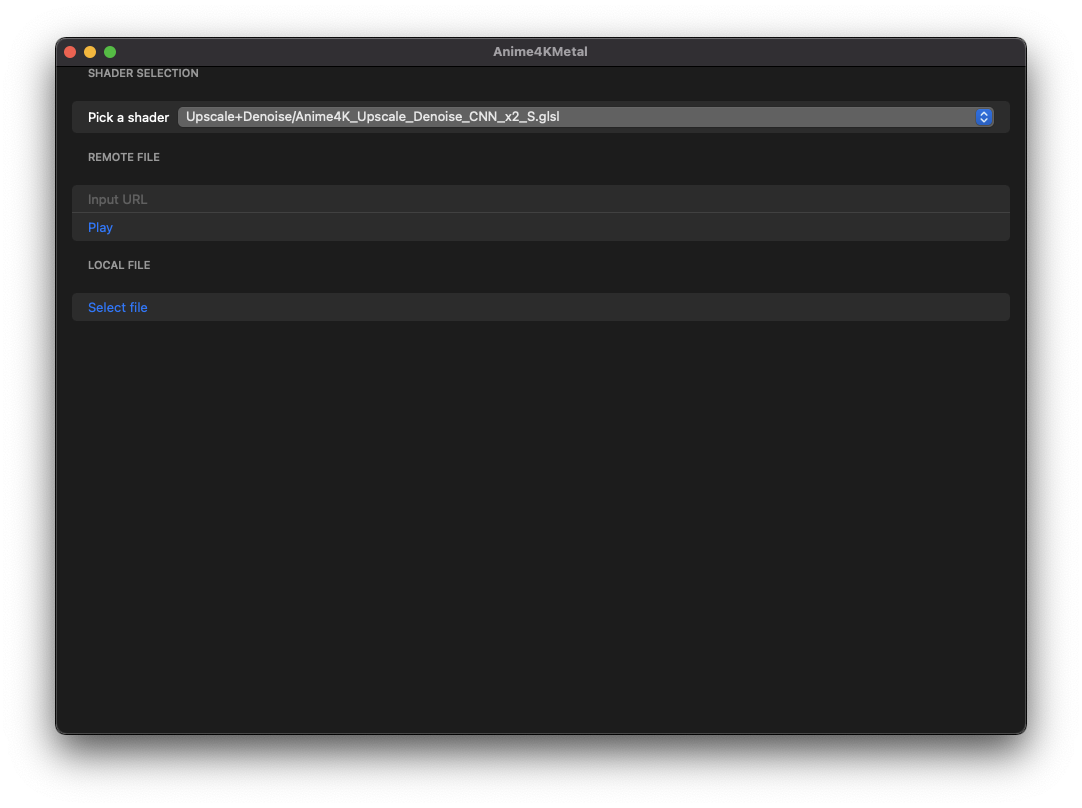
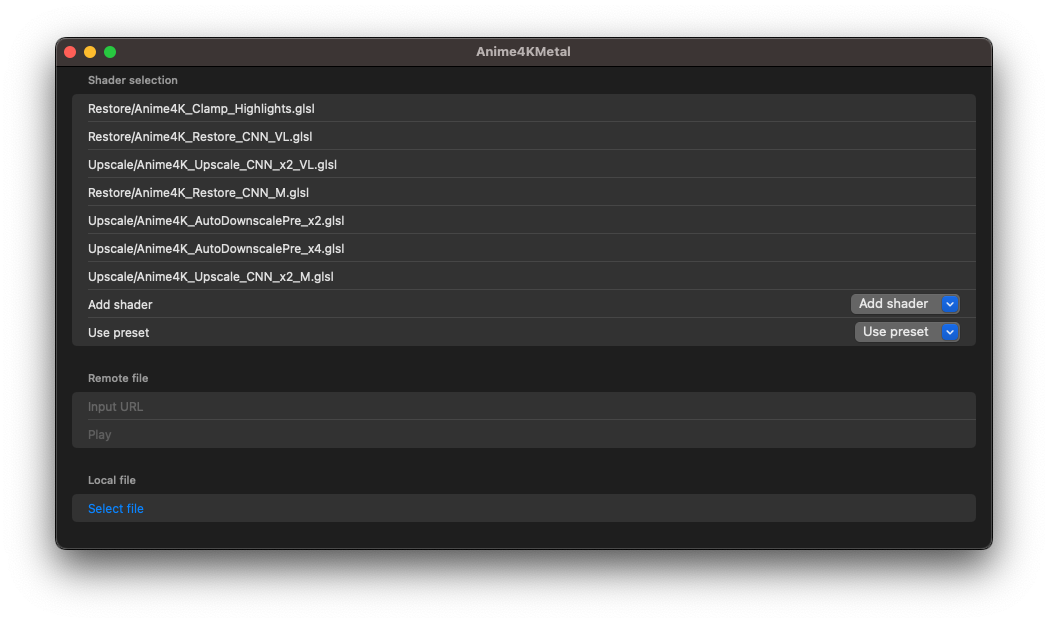
Update readme

diff --git a/README.md b/README.md
@@ -2,7 +2,7 @@
 
 ## Introduction
 
-This is a port of [Anime4K](https://github.com/bloc97/Anime4K) to Metal. It dynamically translates GLSL shaders to Metal shaders and applies them during video playback. All shaders from the Anime4K project should work regardless of performance.
+This is a port of [Anime4K](https://github.com/bloc97/Anime4K) to Metal. It dynamically translates GLSL shaders to Metal shaders and applies them in order during video playback. All shaders and presets from the Anime4K project should work regardless of performance.
 
 ## Requirements
 - Xcode 13.0+
@@ -20,19 +20,40 @@ Download in [Releases](https://github.com/imxieyi/Anime4KMetal/releases).
 
 ![](assets/main_macos.png)
 
+### iOS
+
+![](assets/main_ios.png)
+
 ### tvOS
 
-![](assets/main_tvos.png)
+![](assets/main_tvos.jpg)
 
-### [Anime4K_Restore_CNN_M.glsl](https://github.com/bloc97/Anime4K/blob/master/glsl/Restore/Anime4K_Restore_CNN_M.glsl) on M1 Mac
+### Preset demos
+
+All presets are the same as defined the [official Anime4K instructions](https://github.com/bloc97/Anime4K/blob/master/md/GLSL_Instructions_Mac.md).
+
+#### `Anime4K: Mode A+A (HQ)` on 48-core M1 Ultra
+
+![](assets/Anime4K_A_plus_A_HQ_M1_Ultra.png)
+
+#### `Anime4K: Mode A+A (Fast)` on iPad mini (6th generation) (A15)
+
+![](assets/Anime4K_A_plus_A_Fast_A15_iPad_mini.png)
+
+#### `Anime4K: Mode A (Fast)` on Apple TV 4K (A10X)
+
+![](assets/Anime4K_A_Fast_A10X_Apple_TV.png)
+
+### Single shader demos (old version)
+#### [Anime4K_Restore_CNN_M.glsl](https://github.com/bloc97/Anime4K/blob/master/glsl/Restore/Anime4K_Restore_CNN_M.glsl) on Apple M1
 
 ![](assets/Anime4K_Restore_CNN_M_m1.png)
 
-### [Anime4K_Restore_GAN_UUL.glsl](https://github.com/bloc97/Anime4K/blob/master/glsl/Restore/Anime4K_Restore_GAN_UUL.glsl) on 5700XT
+#### [Anime4K_Restore_GAN_UUL.glsl](https://github.com/bloc97/Anime4K/blob/master/glsl/Restore/Anime4K_Restore_GAN_UUL.glsl) on 5700XT
 
 ![](assets/Anime4K_Restore_GAN_UUL_5700xt.png)
 
-### [Anime4K_Deblur_DoG.glsl](https://github.com/bloc97/Anime4K/blob/master/glsl/Deblur/Anime4K_Deblur_DoG.glsl) on Apple TV 4K (A10X)
+#### [Anime4K_Deblur_DoG.glsl](https://github.com/bloc97/Anime4K/blob/master/glsl/Deblur/Anime4K_Deblur_DoG.glsl) on Apple TV 4K (A10X)
 
 ![](assets/Anime4K_Deblur_DoG_a10x_tv.png)
 
@@ -44,13 +65,11 @@ Download in [Releases](https://github.com/imxieyi/Anime4KMetal/releases).
 
 ## How to use
 
-Only mp4 files with yuv420 pixel format are supported by the built-in decoder. Other formats must be converted to the supported format.
+Only mp4 files with yuv420 pixel format are supported by the OS built-in decoder. Other formats must be converted to the supported format.
 
-### Pick shader
+### Pick shader or preset
 
-Pick the desired shader under `Shader selection` section. Not all shaders will run well on all devices. If you see obvious dropped frames please use a smaller shader instead. Large shaders will take longer time to convert and compile. In the meantime the app will appear not responsive.
-
-On macOS it's recommended putting the app in fullscreen mode for the best experience.
+Pick the desired shader or preset under `Shader selection` section. Not all shaders and presets will run well on all devices. If you see obvious dropped frames please use a smaller shader or preset instead. Large shaders and presets will take longer time to convert and compile. In the meantime the app will appear not responsive.
 
 ### Play from URL
 
@@ -71,7 +90,7 @@ cd Anime4KMetal
 git submodule update --init
 ```
 2. Open `Anime4KMetal.xcodeproj`.
-3. Select target and build.
+3. Select target and build. For macOS please use `Anime4KMetal (iOS)`.
 
 ## Test shader converter
 
@@ -83,7 +102,8 @@ There are a ton of shader warnings due to unused variables. These messages can b
 
 ## Known issues
 
-Due to how bilinear sampler works the output image is not subpixel aligned with the original image.
+- Due to how bilinear sampler works in Metal the output image is not subpixel aligned with the original image.
+- The resulting image is different from mpv, also due to the sampler issue.
 
 ## License
 
